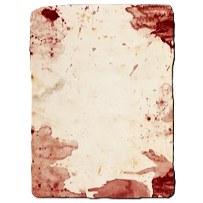
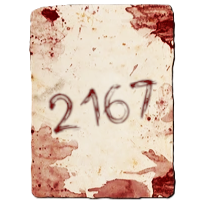
Zmiana kodu drzwi, nowa grafika kartki z kodem, poprawiony dźwięk klikania przycisków na drzwiach

Changed region(s): [[0.2365, 0.4138, 0.6502, 0.6798], [0.6207, 0.3842, 0.7685, 0.5911]]

diff --git a/main.cpp b/main.cpp
@@ -135,6 +135,8 @@ void saveLevelState() {
 void loadLevelState() {
     activeMapIndex = levelStartPoint.mapIndex;
     switchMap(activeMapIndex);
+    initMonsters();
+    initWeapons();
 
     playerX = levelStartPoint.x;
     playerY = levelStartPoint.y;
@@ -154,8 +156,6 @@ void loadLevelState() {
     hasGreenKey = levelStartPoint.hGreen;
     hasRedKey = levelStartPoint.hRed;
 
-    initMonsters();
-
     hitMarkers.clear();
     bulletFlashes.clear();
     shells.clear();
@@ -168,7 +168,7 @@ void loadLevelState() {
 void resetGame() {
     stopMenuMusic();
     stopBossMusic();
-    activeMapIndex = 1;
+    activeMapIndex = 5;
 
     switchMap(activeMapIndex);
     initMonsters();
@@ -1491,7 +1491,7 @@ int main() {
                         static bool enterPressed = false;
                         if (glfwGetKey(window, GLFW_KEY_ENTER) == GLFW_PRESS) {
                             if (!enterPressed) {
-                                if (keypadInput == "1234") { isKeypadSuccess = true; keypadSuccessTimer = 1.0f; if (targetKeypadDoor) { targetKeypadDoor->isLocked = false; targetKeypadDoor->state = OPENING; playDoorSound(); } keypadInput = ""; }
+                                if (keypadInput == "2167") { isKeypadSuccess = true; keypadSuccessTimer = 1.0f; if (targetKeypadDoor) { targetKeypadDoor->isLocked = false; targetKeypadDoor->state = OPENING; playDoorSound(); } hasSecretNote = false; keypadInput = ""; }
                                 else { keypadInput = ""; std::cout << "Bledny kod!" << std::endl; playAccessDeniedSound(); }
                                 enterPressed = true;
                             }
